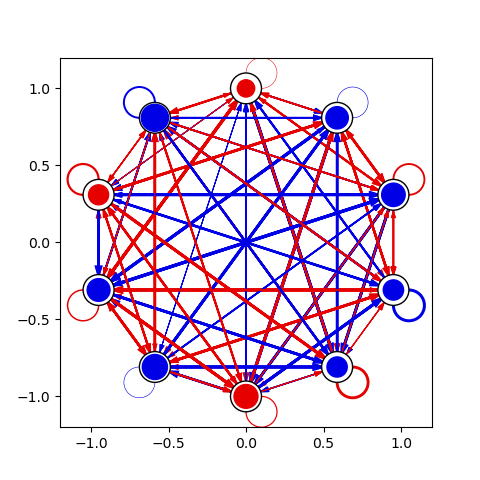
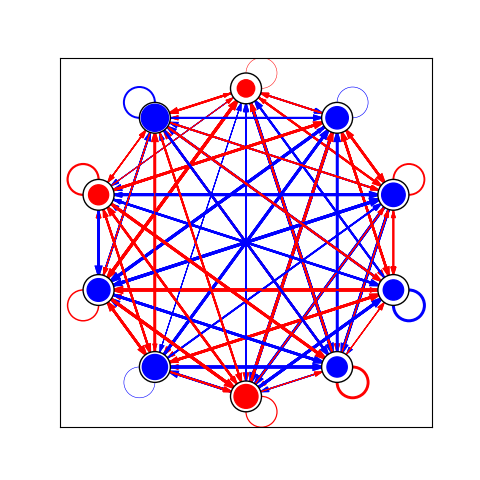
edit README

diff --git a/plotNetworkCircle.py b/plotNetworkCircle.py
@@ -17,10 +17,8 @@ width = (xmax - xmin)*scale
 height = (ymax - ymin)*scale
 xmargin = (xmax - xmin - 1)/8
 
-# inhibColor = [0.8,0,0]
-inhibColor = [0.9,0,0]
-# excitColor = [0,0.7,0]
-excitColor = [0,0,0.9]
+inhibColor = [1,0,0]
+excitColor = [0,0,1]
 
 arrowDist = 0.15
 neuronRadius = 0.1
@@ -72,6 +70,8 @@ def readFile(filename):
 
 def plotNetwork(neurons, connections):
    ax = plt.axes()
+   ax.axes.xaxis.set_visible(False)
+   ax.axes.yaxis.set_visible(False)
 
    positions = [(0,0)] * len(neurons)
    angle = 0.0
@@ -144,11 +144,11 @@ def plotNetwork(neurons, connections):
 
 i=0
 for arg in sys.argv[1:]:
-   plt.figure(i, figsize=(width,height))
-   neurons, connections = readFile(arg)
-   plotNetwork(neurons, connections)
-   plt.ylim([ymin, ymax])
-   plt.xlim([xmin, xmax])
-   plt.savefig(arg + ".png")
-   plt.clf()
-   i+=1
+    plt.figure(i, figsize=(width,height))
+    neurons, connections = readFile(arg)
+    plotNetwork(neurons, connections)
+    plt.ylim([ymin, ymax])
+    plt.xlim([xmin, xmax])
+    plt.savefig(arg + ".png")
+    plt.clf()
+    i+=1
